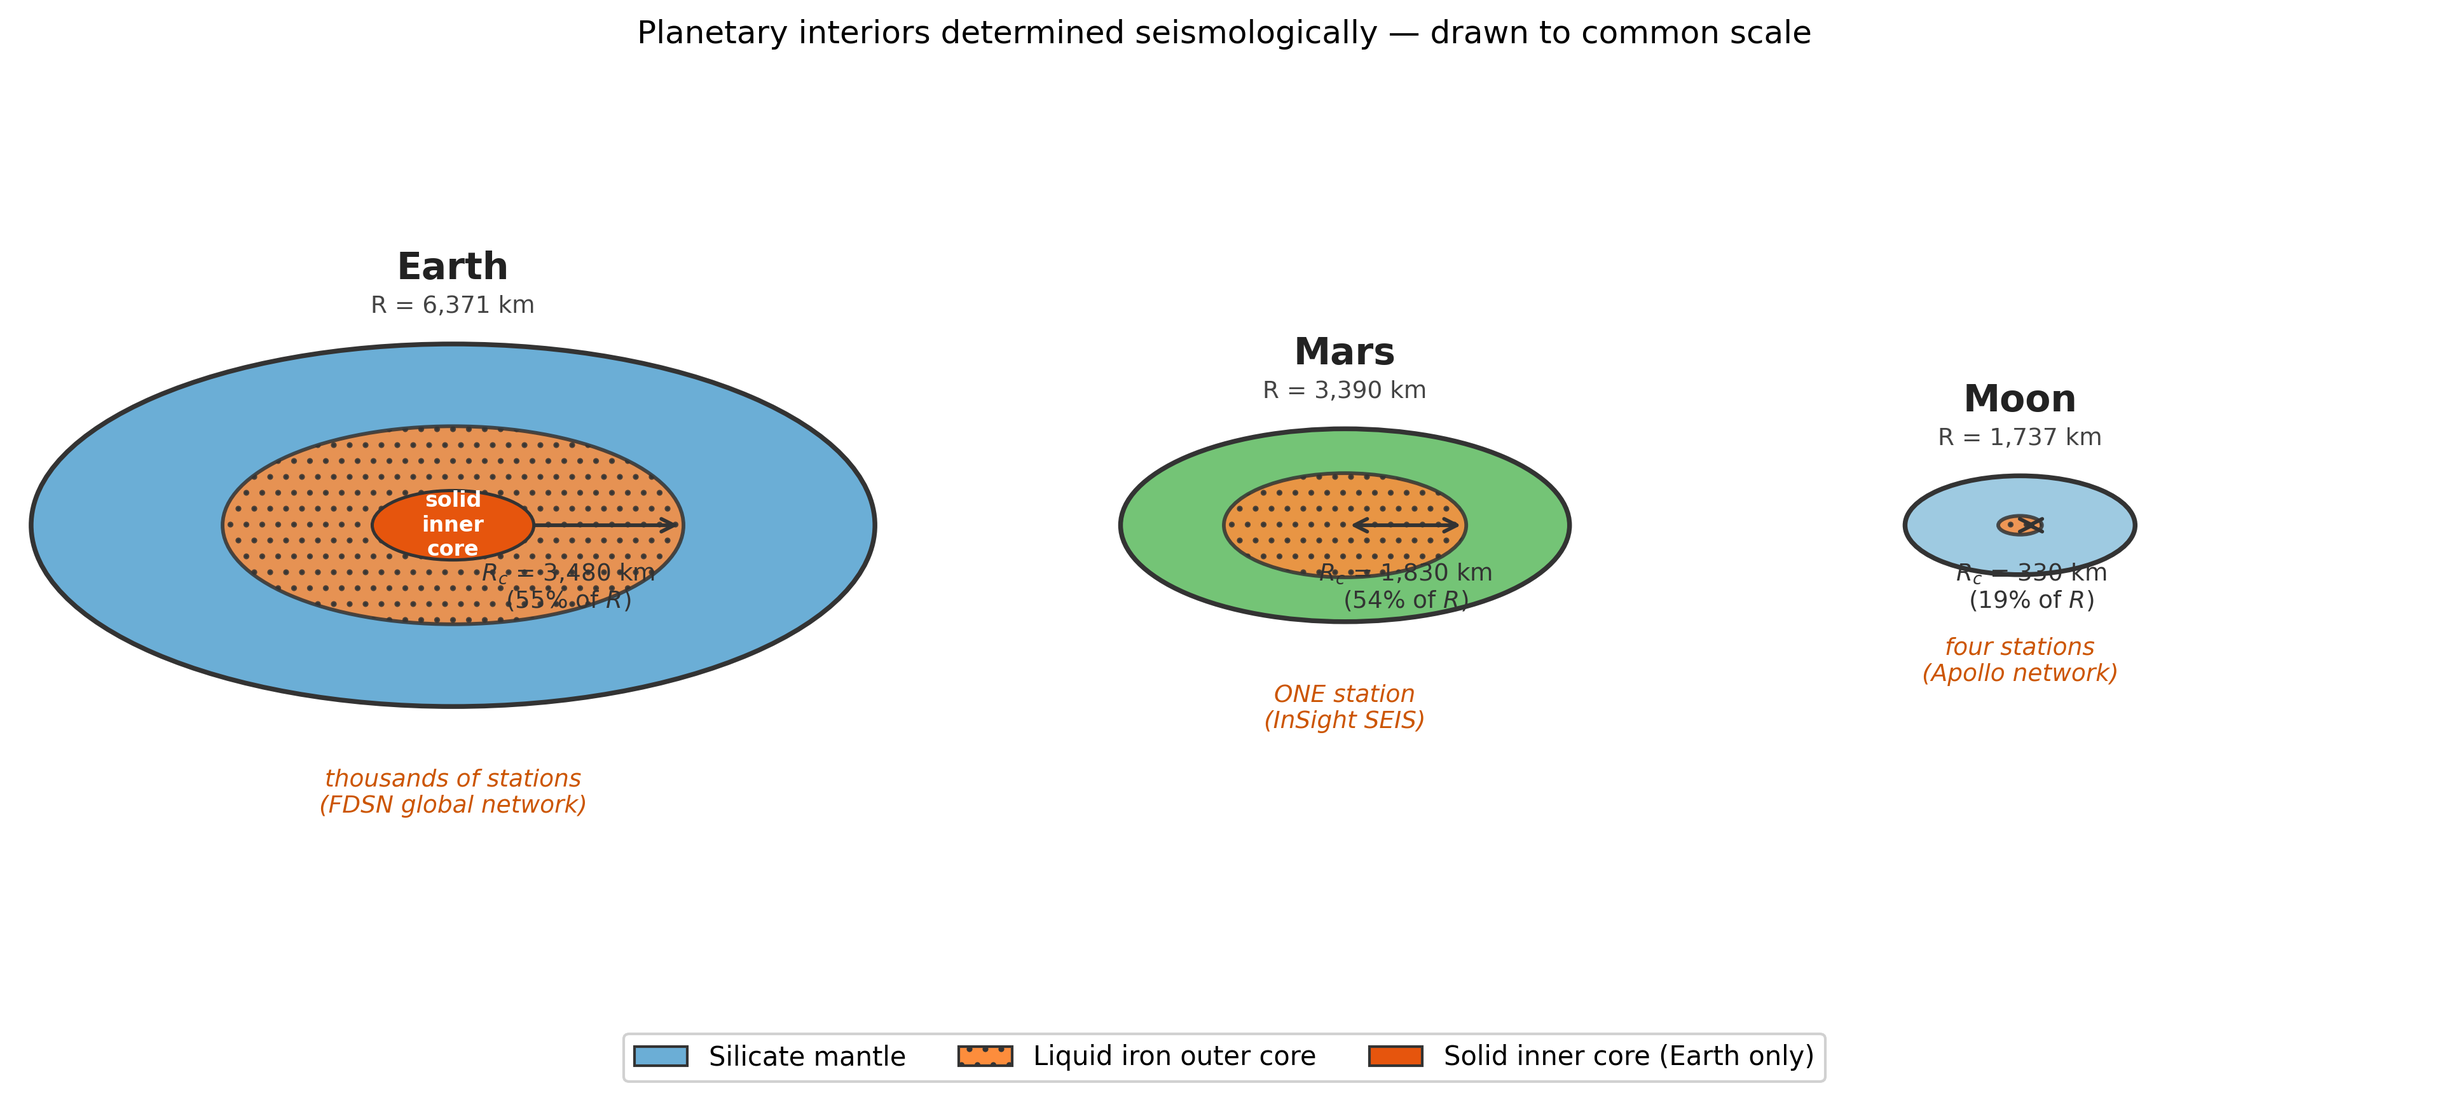
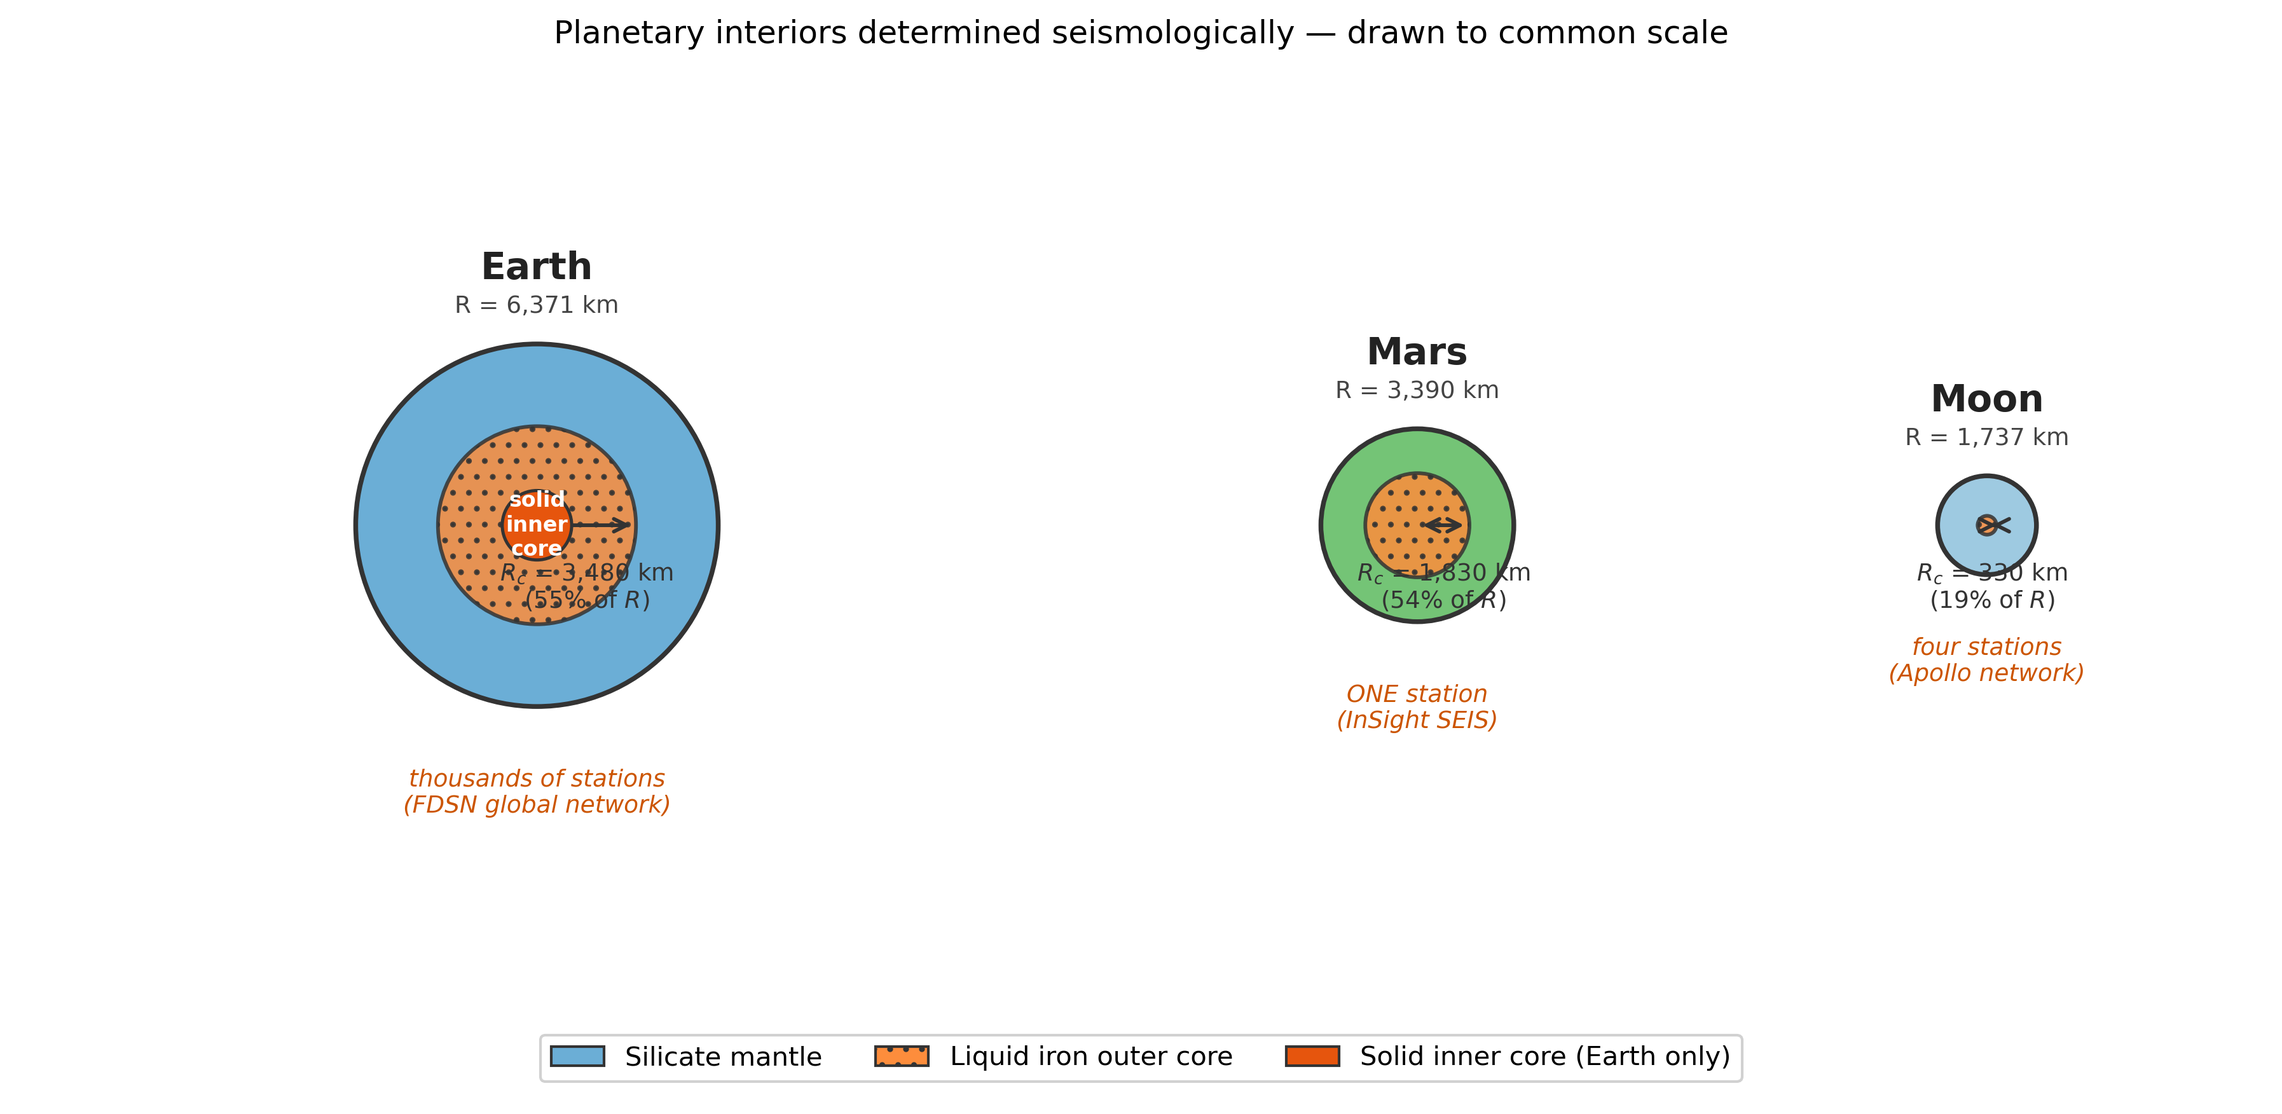
L30: add scales-of-investigation section, fix cross-ref and squeezed figure
- fix broken cross-reference: cooling-of-planet is section 3e, not 3c
- new section 6 'Scales of Investigation': scale ladder from planetary
  interior to near surface, scale-invariance of the inverse problem,
  and resource-management + hazard-modelling implications of structure
- renumber Research Horizon->7, AI Literacy->8, Concept Checks->9,
  Connections->10; update internal section refs
- fig_planetary_interiors: add set_aspect('equal') so planets render as
  circles instead of squeezed ellipses; reposition bodies across the
  widened data axis

diff --git a/assets/scripts/fig_planetary_interiors.py b/assets/scripts/fig_planetary_interiors.py
@@ -30,22 +30,24 @@ mpl.rcParams.update({
 planets = [
     dict(name="Earth",  R=6371, Rc=3480,  stations="thousands of stations\n(FDSN global network)",
          color_mantle="#6BAED6", color_core="#FD8D3C",
-         xc=0.18),
+         xc=0.50),
     dict(name="Mars",   R=3390, Rc=1830,  stations="ONE station\n(InSight SEIS)",
          color_mantle="#74C476", color_core="#FD8D3C",
-         xc=0.55),
+         xc=1.35),
     dict(name="Moon",   R=1737, Rc=330,   stations="four stations\n(Apollo network)",
          color_mantle="#9ECAE1", color_core="#FD8D3C",
-         xc=0.83),
+         xc=1.90),
 ]
 
-# Scale everything to Earth radius = 0.18 of figure width
+# Scale everything to Earth radius = 0.175 display-units
 SCALE = 0.175 / 6371   # display-units per km
 
 FIG_W, FIG_H = 13, 6.0
+ASPECT = FIG_W / FIG_H   # data-unit aspect so circles stay circular
 fig, ax = plt.subplots(figsize=(FIG_W, FIG_H))
-ax.set_xlim(0, 1)
+ax.set_xlim(0, ASPECT)
 ax.set_ylim(0, 1)
+ax.set_aspect("equal")   # critical: prevents circles rendering as ellipses
 ax.axis("off")
 
 BODY_Y = 0.55   # vertical centre of planets

diff --git a/lectures/30_synthesis.md b/lectures/30_synthesis.md
@@ -224,7 +224,7 @@ Three forward operators then act on this single source model. The **elastic wave
 
 This lecture is deliberately a return visit to the whole course. The forward operators in {numref}`fig-synthesis-operators` are, in order, the subjects of Modules 1–3 (the elastic wave equation and seismic imaging), Module 4 (gravity and isostasy), Module 5 (magnetics and the magnetization–temperature link through the Curie point), and Module 7 (the thermal lithosphere and flexure). The non-uniqueness argument formalizes a thread that began with the hidden-layer problem in seismic refraction, recurred in the equivalent-source ambiguity of potential fields, and was named explicitly in tomography. The plate-cooling spine ties Module 7's thermal model to Module 4's isostasy and to the seafloor ages read from Module 5's magnetic stripes — three modules in one model.
 
-The cooling of one plate (section 3b) and the cooling of the whole planet (section 3c) are the same physics at two scales. The convecting mantle that sheds the Earth's heat ({numref}`fig-convection-engine`) presents itself at the surface in two ways. Its cold, organized downwellings are the subducting slabs of plate tectonics; its passive shallow upwellings rise beneath the mid-ocean ridges. Plate tectonics, in this light, is the *surface expression of mantle convection* — the cold upper boundary layer of the convecting system, broken into plates that diverge where material rises and converge where it sinks.
+The cooling of one plate (section 3b) and the cooling of the whole planet (section 3e) are the same physics at two scales. The convecting mantle that sheds the Earth's heat ({numref}`fig-convection-engine`) presents itself at the surface in two ways. Its cold, organized downwellings are the subducting slabs of plate tectonics; its passive shallow upwellings rise beneath the mid-ocean ridges. Plate tectonics, in this light, is the *surface expression of mantle convection* — the cold upper boundary layer of the convecting system, broken into plates that diverge where material rises and converge where it sinks.
 
 ```{figure} ../assets/figures/fig_mantle_convection_engine.png
 :name: fig-convection-engine
@@ -244,27 +244,78 @@ The second disruption is fixity. The hotspot reference frame was long treated as
 
 The deeper significance is the one to carry out of the course. Plate tectonics shows mantle convection's cold, organized *downwellings* at the surface; hotspots reveal its hot, narrow *upwellings* from the base of the mantle. That those upwellings wander, tilt, and split is direct evidence that the mantle is not a tidy array of steady cells but a vigorously stirred, turbulent flow. Hotspots, in other words, are the clearest surface sign that the solid Earth is convecting — the planet's slow boil made visible.
 
-The Pacific Northwest concentrates these themes in one place. The Cascadia subduction zone offshore is the region's dominant earthquake and tsunami hazard, and its assessment is exactly a multi-method problem — seismic imaging of the megathrust geometry, geodetic measurement of locking, and gravity and bathymetry of the forearc, combined into one picture of where and how the fault will slip {cite:p}`Biemiller2025, Ledeczi2024`. The same Puget Sound that carries the hazard also carries dense fibre-optic networks beneath its cities, now being read as urban seismic arrays; and the Cascade glaciers and the larger ice sheets that set regional sea level are monitored by the seismic and geodetic methods introduced in section 6. A student leaving this course is equipped to read any of these problems as an instance of the single logic the course has built: observation, model, inference, interpretation.
+The Pacific Northwest concentrates these themes in one place. The Cascadia subduction zone offshore is the region's dominant earthquake and tsunami hazard, and its assessment is exactly a multi-method problem — seismic imaging of the megathrust geometry, geodetic measurement of locking, and gravity and bathymetry of the forearc, combined into one picture of where and how the fault will slip {cite:p}`Biemiller2025, Ledeczi2024`. The same Puget Sound that carries the hazard also carries dense fibre-optic networks beneath its cities, now being read as urban seismic arrays; and the Cascade glaciers and the larger ice sheets that set regional sea level are monitored by the seismic and geodetic methods introduced in section 7. A student leaving this course is equipped to read any of these problems as an instance of the single logic the course has built: observation, model, inference, interpretation.
 
 ---
 
-## 6. Research Horizon
+## 6. Scales of Investigation: Imaging the Subsurface from Planet to Pore
+
+The synthesis of section 5 spanned one plate to the whole planet, but the reach of these methods is wider still. The forward operators of {numref}`fig-synthesis-operators` are not tied to any particular size: the elastic wave equation, Newtonian gravity, the magnetic potential field, heat conduction, and electromagnetic induction apply from the radius of an entire planet down to the first metre of soil. What changes from one scale to the next is not the physics but the **wavelength of the probe and the aperture of the survey**, which together fix the depth of penetration and the spatial resolution. A method resolves structure on the order of the wavelength it uses and senses to a depth comparable to the size of its array. Matching wavelength and aperture to the target is the practical craft of subsurface imaging — and it is the same craft, whether the target is the Martian core or a buried fuel tank.
+
+### 6a. The scale ladder
+
+The course has, often without naming it, climbed a ladder of scales. Each rung uses the same families of observation but tunes them to a different depth.
+
+| Scale | Characteristic size | Dominant methods | What is imaged | Typical resolution |
+|---|---|---|---|---|
+| Planetary interior | $10^{3}\text{–}10^{4}$ km | Teleseismic body waves, free oscillations, mean density, moment of inertia | Core, mantle, and crust radii of Earth, Mars, the Moon ({numref}`fig-planetary`) | $10^{2}$ km |
+| Whole mantle / global | $10^{3}$ km | Travel-time and waveform tomography, the geoid | Slabs, plumes, large low-shear-velocity provinces, convective planform | $10^{2}$–$10^{3}$ km |
+| Lithosphere / regional | $10\text{–}500$ km | Surface-wave tomography, receiver functions, regional gravity and magnetics, heat flow | Moho depth, plate thickness, basin and orogen geometry | km–$10$ km |
+| Crustal exploration | $0.1\text{–}10$ km | Active-source reflection and refraction, gravity and magnetic surveys, magnetotellurics | Reservoirs, faults, ore bodies, magma chambers, aquifers | $10$–$10^{2}$ m |
+| Near surface / engineering | $1\text{–}100$ m | Ground-penetrating radar, electrical resistivity, shallow refraction and surface-wave (MASW) | Water table, bedrock depth, contaminant plumes, permafrost, voids | cm–m |
+
+Reading the table downward, the wavelength shortens, the aperture shrinks, and the resolution sharpens — but the depth of investigation shrinks with it. A free-oscillation period of an hour senses the whole planet but cannot resolve a sedimentary layer; a $100\ \mathrm{MHz}$ ground-penetrating-radar pulse maps the water table to the centimetre but dies out within metres. There is no single best method, only a method matched to a scale.
+
+### 6b. The same logic at every depth
+
+What unifies the ladder is the inverse problem itself. At every rung the workflow is the one this course has built: deploy sources and receivers, measure a wavefield or a potential field at the surface, and invert it for the property contrast at depth, then test the result against an independent observable. At planetary scale the source is a marsquake and the receiver a single lander; in a groundwater survey the source is a sledgehammer and the receivers a line of geophones a metre apart. The misfit functional {eq}`eq-misfit`, and the non-uniqueness it carries, are identical in form. So is the cure: the joint-inversion logic that ties seismic velocity to density through the Nafe–Drake relation (section 3c), or pins a gravity model to a seismically imaged interface, removes ambiguity as effectively in a 50-metre engineering survey as in a whole-mantle tomography. **The synthesis principle of this course is scale-invariant.**
+
+```{important}
+**Key Concept — scale invariance of the inverse problem.** The physics that images Mars from one seismometer and the physics that images a contaminant plume from a resistivity line are the same forward-and-inverse logic operating at different wavelengths. Mastering the principle once — observation, forward operator, joint inversion, independent check — equips a geophysicist to work at any scale.
+```
+
+### 6c. Why structure matters: resource management
+
+Knowing the subsurface structure is not an end in itself; it is the basis for managing what the subsurface holds. Every resource decision rests on an image built from the methods of this course.
+
+- **Geothermal energy** depends on the heat-flow and temperature field of section 3b and on seismic and magnetotelluric imaging of permeable, hot rock at drillable depth.
+- **Groundwater** is mapped by electrical resistivity and shallow seismics that locate the water table, the aquifer geometry, and the impermeable layers that confine it.
+- **Critical minerals** — the metals required for electrification — are targeted by gravity and magnetic surveys that detect the density and magnetization contrasts of ore bodies, then refined by seismic and electromagnetic follow-up.
+- **Carbon storage** requires both *characterization* (a porous reservoir beneath an impermeable seal, imaged by reflection seismology and gravity) and *monitoring* (time-lapse, or 4-D, seismic and gravity surveys that track the injected $\mathrm{CO_2}$ plume and verify it stays contained).
+
+In each case the value of the image is set by its resolution and by how well independent methods agree: a single ambiguous survey can place a costly well in barren rock, whereas a joint interpretation that satisfies seismic, gravity, and electromagnetic data at once de-risks the decision.
+
+### 6d. Why structure matters: hazard modelling
+
+The same images underpin the assessment of geophysical hazards, the theme that ran through Modules 3 and 8.
+
+- **Earthquake shaking** depends on near-surface structure: the shallow shear-wave velocity $V_{s30}$, imaged by surface-wave methods, controls how much a soft basin amplifies ground motion (L17), while deeper seismic and geodetic imaging fixes the fault geometry and locking that set the source (section 3d).
+- **Tsunami run-up** depends on the slip distribution and the bathymetry and forearc structure imaged seismically (L18); whether rupture reaches the shallow seafloor — a question of accretionary-wedge structure — governs the wave height.
+- **Volcanic unrest** is tracked by seismic imaging of magma reservoirs, by geodetic measurement of inflation, and by gravity changes as magma moves — three independent observables of one migrating mass.
+- **Landslides and ground failure** are assessed with near-surface seismic and resistivity imaging of the failure surface and the saturated layers above it.
+- **Induced seismicity** from fluid injection — wastewater, geothermal, or carbon storage — links the resource and hazard sides directly: the same reservoir model that guides injection must also forecast the faults that injection might reactivate.
+
+In every case the chain is identical: an image of the subsurface, built by joint interpretation of independent methods, feeds a forward model that predicts the consequence — shaking, run-up, eruption, failure. The better the structural image, the more reliable the forecast. This is the practical payoff of the entire course: **structure inferred from geophysics is the input on which resource management and hazard mitigation depend.**
+
+---
+
+## 7. Research Horizon
 
 Geophysics is expanding along several fronts at once. Four are sketched here; each is advancing now for an identifiable methodological reason, and each is an entry point for undergraduate research.
 
-### 6a. Machine learning
+### 7a. Machine learning
 
 Data-driven methods became central to seismology over a short window beginning around 2018, when convolutional networks were first shown to detect and locate earthquakes directly from waveforms {cite:p}`Perol2018`, followed quickly by deep phase pickers that now underpin routine catalog production {cite:p}`MousaviBeroza2024`. The timing was set by two enabling conditions arriving together: inexpensive parallel computation on graphics processing units, and large labelled seismic datasets from decades of dense network archives. The methods are tools, not oracles — their failure modes (poor transfer between regions and instrument types, sensitivity to training-set bias) are themselves an active research subject {cite:p}`MousaviBeroza2022`.
 
-### 6b. Sensing technology
+### 7b. Sensing technology
 
 The data that geophysics can collect are limited by its instruments, and the instrument base is changing. Distributed acoustic sensing turns an ordinary fibre-optic telecommunication cable into a dense array of thousands of strain sensors by interrogating backscattered laser light, recording the seismic wavefield every few metres along tens of kilometres of fibre at low cost {cite:p}`LindseyMartin2021, Zhan2020`. Unused "dark fibre" beneath cities, under the seafloor, and along glaciers is being repurposed as seismic instrumentation in places where conventional stations cannot be installed.
 
-### 6c. The cryosphere and the environment
+### 7c. The cryosphere and the environment
 
 Glaciers and ice sheets generate seismic signals — fracture, basal slip, calving — that record processes otherwise hidden from view, and these signals can be monitored continuously and modelled physically {cite:p}`AsterWinberry2017, Latto2024`. Fibre-optic sensing has recently been extended onto and into ice, combining the technology and cryosphere fronts {cite:p}`Lipovsky2025`. The same near-surface methods constrain groundwater, permafrost, and contaminant transport, placing geophysics directly in the service of environmental and climate science.
 
-### 6d. Planetary interiors
+### 7d. Planetary interiors
 
 The course defined geophysics as the physics of the inaccessible interior. That definition now extends to other worlds. NASA's InSight lander placed a single seismometer on Mars in 2018 and, from roughly 1,300 marsquakes recorded by that one station, returned the first seismologically determined crust, mantle, and core of another planet — including confirmation of a large liquid iron core {cite:p}`Stahler2021, Khan2021, Lognonne2023`. Earth's interior was mapped by thousands of stations, the Moon's by the four-station Apollo network, and Mars's by one ({numref}`fig-planetary`). The reasoning is identical at every scale: convert what reaches the surface into a statement about what lies beneath.
 
@@ -282,7 +333,7 @@ The live tectonics frontier remains close to home. The structure of the Cascadia
 
 ---
 
-## 7. AI Literacy: Evaluating a Synthesis Against Your Own Rubric
+## 8. AI Literacy: Evaluating a Synthesis Against Your Own Rubric
 
 ```{admonition} AI Epistemics — the capstone standard (LO-7)
 :class: important
@@ -307,7 +358,7 @@ The standard is not whether the AI sounds authoritative. It is whether its argum
 
 ---
 
-## 8. Concept Checks
+## 9. Concept Checks
 
 1. Gravity and seismic refraction are both proposed to map the depth to a basement interface beneath a sedimentary basin. State one property each method senses, and explain why running both is more informative than running either twice.
 2. On the Moon, the core radius is about 19% of the planetary radius; on Mars it is about 54% ({numref}`fig-planetary`). Both figures were obtained seismologically. What does the contrast imply about how much iron each body retained relative to its silicate mantle?
@@ -318,7 +369,7 @@ The standard is not whether the AI sounds authoritative. It is whether its argum
 
 ---
 
-## 9. Connections
+## 10. Connections
 
 - [Lecture 11 — Whole Earth I](11_whole_earth_I.md) — seismic travel times and the reference velocity model that sections 3a–3b extend.
 - [Lecture 12 — Seismic Tomography](12_seismic_tomography.md) — the tomographic inverse problem of which {eq}`eq-misfit` is a generalization.
